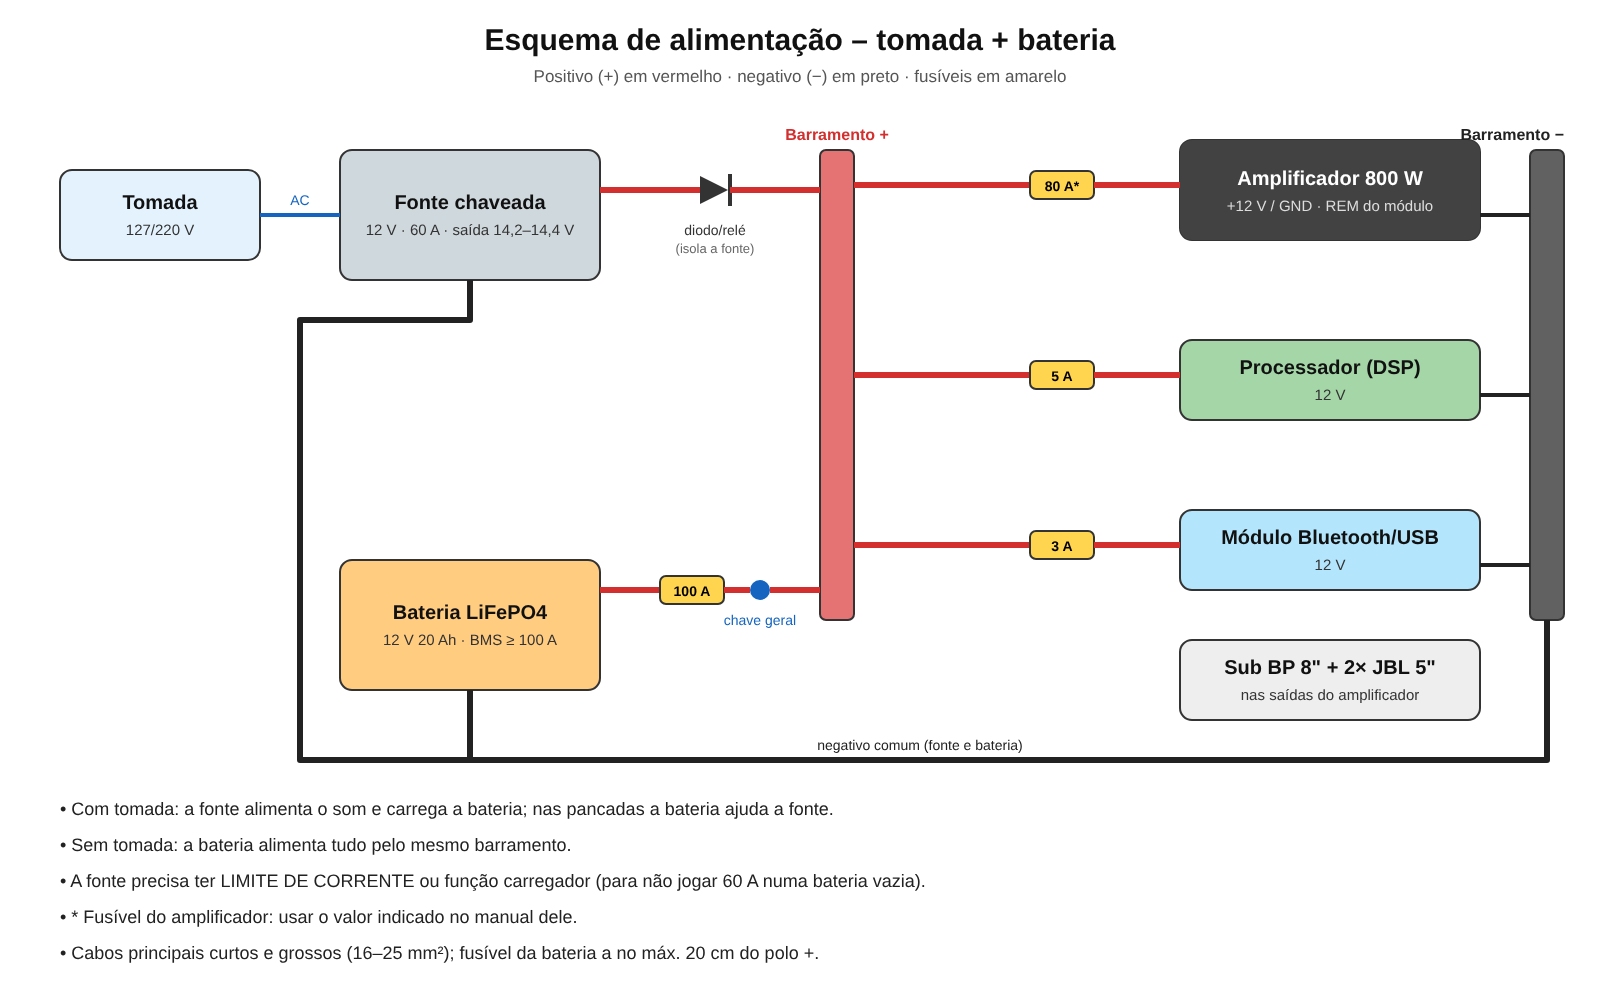
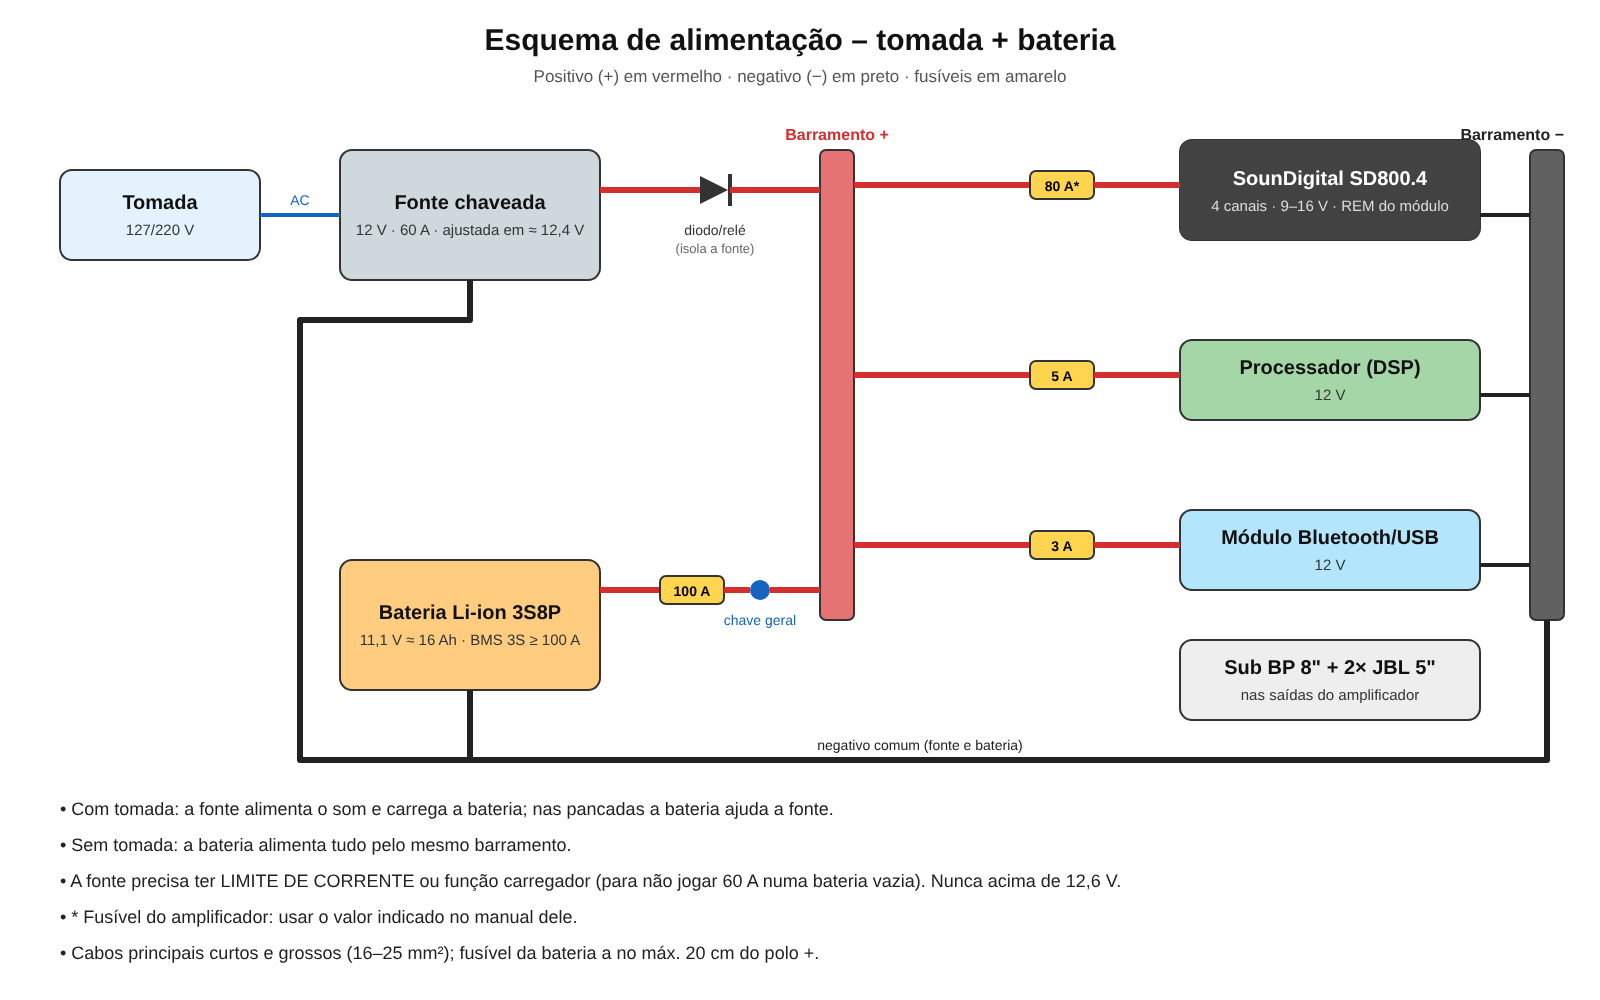
Atualiza caixa compacta com amplificador SD800.4 e JBL 5TRMS80
Claude-Session: https://claude.ai/code/session_01Xqr2b8JS1uj39tzQWZP4xF

diff --git a/ferramentas/render3d/combo.html b/ferramentas/render3d/combo.html
@@ -7,14 +7,14 @@ body{margin:0;width:1600px;height:1100px;background:linear-gradient(#f3f4f6,#dfe
 #f{position:absolute;bottom:22px;width:100%;text-align:center;font-size:18px;color:#52606d}
 </style></head><body>
 <div id="t">Caixa compacta com compartimento técnico</div>
-<div id="s">320 × 480 × 340 mm (L × A × P) · sub ≈ 15,8 L, sintonia ≈ 37 Hz · JBL juntos numa câmara fechada de ≈ 6 L</div>
+<div id="s">320 × 477 × 280 mm (L × A × P) · sub ≈ 15,8 L, sintonia ≈ 37 Hz · 2× JBL 5TRMS80 numa câmara fechada de ≈ 4,5 L</div>
 <div class="c" id="a" style="left:0"></div><div class="c" id="b" style="left:800px"></div>
 <div class="l" style="left:0">Frente</div><div class="l" style="left:800px">Traseira aberta – compartimento técnico e duto</div>
-<div id="f"><span style='color:#c8742c'>■</span> bateria LiFePO4 12 V 20 Ah &nbsp; <span style='color:#9aa3ad'>■</span> fonte chaveada 60 A &nbsp; <span style='color:#222'>■</span> amplificador 800 W &nbsp; <span style='color:#2e7d32'>■</span> processador &nbsp; <span style='color:#d32f2f'>■</span>/<span style='color:#222'>■</span> barramentos + / −</div>
+<div id="f"><span style='color:#c8742c'>■</span> bateria Li-ion 3S8P &nbsp; <span style='color:#9aa3ad'>■</span> fonte chaveada 12 V 60 A &nbsp; <span style='color:#222'>■</span> SounDigital SD800.4 EVO 6 &nbsp; <span style='color:#2e7d32'>■</span> processador &nbsp; <span style='color:#d32f2f'>■</span>/<span style='color:#222'>■</span> barramentos + / −</div>
 <script src="node_modules/three/build/three.min.js"></script>
 <script>
-const W=32,H=48,D=34,T=1.5;
-const subH=22, subY=-H/2+T+11, divY=-H/2+T+subH+T/2, upH=H-3*T-subH, jY=divY+T/2+upH/2, jX=7.5, bayZ0=-D/2+T, bayZ1=D/2-T-11-T;
+const W=32,H=47.7,D=28,T=1.5;
+const subH=27.2, subY=-H/2+T+13.6, divY=-H/2+T+subH+T/2, upH=H-3*T-subH, jY=divY+T/2+upH/2, jX=7.5, bayZ0=-D/2+T, bayZ1=D/2-T-11-T;
 const X0=xr=>(W/2-T)-xr, Y0=yr=>(-H/2+T)+yr;
 function mdfTex(){const c=document.createElement('canvas');c.width=c.height=512;const g=c.getContext('2d');
  g.fillStyle='#8fa486';g.fillRect(0,0,512,512);
@@ -67,16 +67,15 @@ function scene(open){
  // compartimento técnico
  const box=(w,h,d,x,y,z,col,met=0.2)=>{const m=new THREE.Mesh(new THREE.BoxGeometry(w,h,d),new THREE.MeshStandardMaterial({color:col,roughness:0.5,metalness:met}));m.position.set(x,y,z);m.castShadow=m.receiveShadow=true;g.add(m);return m;};
  const by=divY+T/2;
- box(8,17,18,-10.5,by+8.5,bayZ0+9,0xc8742c);               // bateria em pé, de lado
- box(6,1,10,-10.5,by+17.5,bayZ0+9,0x333333);                // terminais
- box(20,5,11,4,by+2.5,bayZ0+5.5,0x9aa3ad,0.7);             // fonte chaveada deitada
- for(let i=0;i<9;i++)box(0.25,0.2,9,-4+i*2,by+5.05,bayZ0+5.5,0x5f6770,0.6);
- box(9,3,7,1,by+6.5,bayZ0+4.5,0x2e7d32);                   // processador
- box(21,14,5,4,by+14,bayZ1-2.5,0x1e1e1e,0.4);              // amplificador na parede
- for(let i=0;i<8;i++)box(21,0.5,1.2,4,by+8+i*1.7,bayZ1-5.6,0x2b2b2b,0.6);
- box(1.2,1.2,9,13.6,by+15,bayZ0+5,0xd32f2f,0.5);           // barramento +
- box(1.2,1.2,9,13.6,by+12,bayZ0+5,0x222222,0.5);           // barramento -
- box(3,4,1.5,-10.5,by+20,bayZ0+1,0x1565c0);                 // fusível/chave geral
+ box(21.5,5,11.5,0,by+2.5,bayZ0+6.2,0x9aa3ad,0.7);         // fonte chaveada deitada
+ for(let i=0;i<10;i++)box(0.25,0.2,9.5,-9+i*2,by+5.05,bayZ0+6.2,0x5f6770,0.6);
+ box(11.2,5.2,10.7,-7.6,by+5+2.6,bayZ0+6,0x3a3d42,0.5);     // amplificador SD800.4
+ for(let i=0;i<6;i++)box(10.6,0.8,0.35,-7.6,by+10.6,bayZ0+1.6+i*1.75,0x2a2c30,0.6);
+ box(15,6.5,6,6.4,by+5+3.25,bayZ0+3.6,0xc8742c);            // bateria 3S8P
+ box(9,2.4,6,6.4,by+11.5+1.2,bayZ0+3.6,0x2e7d32);           // processador
+ box(1.2,1.2,8,-13.6,by+14,bayZ0+5,0xd32f2f,0.5);           // barramento +
+ box(1.2,1.2,8,-13.6,by+12,bayZ0+5,0x222222,0.5);           // barramento -
+ box(3,3.5,1.5,11,by+13.5,bayZ0+1,0x1565c0);                // fusível/chave geral
  // topo: alça e módulo
  const hd=new THREE.Mesh(new THREE.BoxGeometry(12,0.6,7),metal);hd.position.set(0,H/2+0.1,-2);g.add(hd);
  const hd2=new THREE.Mesh(new THREE.BoxGeometry(9,0.3,3.5),black);hd2.position.set(0,H/2+0.45,-2);g.add(hd2);
@@ -86,7 +85,7 @@ function scene(open){
  const pvc=new THREE.MeshStandardMaterial({color:0x3d8bd4,roughness:0.45,side:THREE.DoubleSide});
  const zp=-D/2+T+4.5,R=4.2,P=(x,y,z)=>new THREE.Vector3(x,y,z),path=new THREE.CurvePath();
  const seg=(a,b)=>path.add(new THREE.LineCurve3(a,b)),bend=(a,c,b)=>path.add(new THREE.QuadraticBezierCurve3(a,c,b));
- const ex=X0(24.5),ey=Y0(4.5),lx=X0(4.5),ty=Y0(17.5),endx=X0(13.5),sg=Math.sign(lx-ex);
+ const ex=X0(24.5),ey=Y0(4.5),lx=X0(4.5),ty=Y0(22.7),endx=X0(8.3),sg=Math.sign(lx-ex);
  seg(P(ex,ey,-D/2),P(ex,ey,zp-R));bend(P(ex,ey,zp-R),P(ex,ey,zp),P(ex+sg*R,ey,zp));
  seg(P(ex+sg*R,ey,zp),P(lx-sg*R,ey,zp));bend(P(lx-sg*R,ey,zp),P(lx,ey,zp),P(lx,ey+R,zp));
  seg(P(lx,ey+R,zp),P(lx,ty-R,zp));bend(P(lx,ty-R,zp),P(lx,ty,zp),P(lx-sg*R,ty,zp));
@@ -104,5 +103,5 @@ function scene(open){
 function render(id,open,cam){const el=document.getElementById(id);const rd=new THREE.WebGLRenderer({antialias:true,alpha:true,preserveDrawingBuffer:true});
  rd.setSize(800,880);rd.shadowMap.enabled=true;rd.shadowMap.type=THREE.PCFSoftShadowMap;rd.outputColorSpace=THREE.SRGBColorSpace;rd.toneMapping=THREE.ACESFilmicToneMapping;el.appendChild(rd.domElement);
  const c=new THREE.PerspectiveCamera(30,800/880,1,500);c.position.set(...cam);c.lookAt(0,0,0);rd.render(scene(open),c);}
-render('a',false,[60,40,110]);render('b',true,[-60,42,-110]);window.done=true;
+render('a',false,[58,40,104]);render('b',true,[-58,44,-100]);window.done=true;
 </script></body></html>

diff --git a/ferramentas/desenho_ligacao.py b/ferramentas/desenho_ligacao.py
@@ -20,12 +20,12 @@ tx(W/2,82,"Positivo (+) em vermelho · negativo (−) em preto · fusíveis em a
 R,K="#d32f2f","#222"
 # blocos
 box(60,170,200,90,"Tomada","127/220 V","#e3f2fd")
-box(340,150,260,130,"Fonte chaveada","12 V · 60 A · saída 14,2–14,4 V","#cfd8dc")
-box(340,560,260,130,"Bateria LiFePO4","12 V 20 Ah · BMS ≥ 100 A","#ffcc80")
+box(340,150,260,130,"Fonte chaveada","12 V · 60 A · ajustada em ≈ 12,4 V","#cfd8dc")
+box(340,560,260,130,"Bateria Li-ion 3S8P","11,1 V ≈ 16 Ah · BMS 3S ≥ 100 A","#ffcc80")
 box(1180,140,300,100,"Amplificador 800 W","","#424242")
 box(1180,340,300,80,"Processador (DSP)","12 V","#a5d6a7")
 box(1180,510,300,80,"Módulo Bluetooth/USB","12 V","#b3e5fc")
-a('<rect x="1180" y="140" width="300" height="100" rx="12" fill="#424242"/>');tx(1330,185,"Amplificador 800 W",20,"#fff",wt="bold");tx(1330,211,"+12 V / GND · REM do módulo",15,"#ddd")
+a('<rect x="1180" y="140" width="300" height="100" rx="12" fill="#424242"/>');tx(1330,185,"SounDigital SD800.4",20,"#fff",wt="bold");tx(1330,211,"4 canais · 9–16 V · REM do módulo",15,"#ddd")
 # barramentos
 a('<rect x="820" y="150" width="34" height="470" rx="6" fill="#e57373" stroke="#333" stroke-width="2"/>');tx(837,140,"Barramento +",16,R,wt="bold")
 a('<rect x="1530" y="150" width="34" height="470" rx="6" fill="#616161" stroke="#333" stroke-width="2"/>');tx(1564,140,"Barramento −",16,K,"end","bold")
@@ -51,7 +51,7 @@ box(1180,640,300,80,"Sub BP 8\" + 2× JBL 5\"","nas saídas do amplificador","#e
 y0=815
 notas=["Com tomada: a fonte alimenta o som e carrega a bateria; nas pancadas a bateria ajuda a fonte.",
 "Sem tomada: a bateria alimenta tudo pelo mesmo barramento.",
-"A fonte precisa ter LIMITE DE CORRENTE ou função carregador (para não jogar 60 A numa bateria vazia).",
+"A fonte precisa ter LIMITE DE CORRENTE ou função carregador (para não jogar 60 A numa bateria vazia). Nunca acima de 12,6 V.",
 "* Fusível do amplificador: usar o valor indicado no manual dele.",
 "Cabos principais curtos e grossos (16–25 mm²); fusível da bateria a no máx. 20 cm do polo +."]
 for i,n in enumerate(notas): tx(60,y0+i*36,"• "+n,18,"#222","start")

diff --git a/notas/projeto-compacto.md b/notas/projeto-compacto.md
@@ -75,3 +75,18 @@
 - Capacidade nominal: 14 Ah (7P) ou 16 Ah (8P), ≈ 155–180 Wh. Em células genéricas a real costuma ser menor.
 - Tamanho do 3S8P deitado: ≈ 15 × 6 × 7 cm, ≈ 1,1 kg.
 - Obrigatório: testar capacidade e resistência interna de cada célula, montar grupos paralelos equilibrados, BMS 3S ≥ 100 A com balanceamento, e ligações série dimensionadas para 60–80 A.
+
+## Revisão com componentes reais
+- **JBL Multisystem 5TRMS80** (triaxial): 80 W RMS, 4 Ω, Fs 91 Hz, 87 dB, resposta de 76 Hz a 20 kHz.
+  - O anúncio diz "largura 6,8"" — **medir**: se forem 17 cm, os dois não cabem lado a lado em 32 cm. O projeto supõe cerca de 13,5 cm.
+- **SounDigital SD800.4 EVO 6:** 4 canais, 800 W RMS a 4 Ω (≈ 200 W por canal), alimentação de 9–16 V, 11,2 × 10,7 × 5,2 cm, com filtros passa-altas e passa-baixas.
+  - Canal 1: sub BP 8" (4 Ω). ~200 W combina com o limite de excursão, e não precisa ligar em ponte.
+  - Canais 2 e 3: os JBL, com passa-altas em 100–120 Hz e ganho moderado (80 W RMS cada).
+  - Canal 4: livre.
+  - Com o pack 3S (9–12,6 V) a potência fica abaixo da nominal, mas suficiente.
+  - **BMS cortando em 3,1–3,2 V por célula** (9,3–9,6 V), para o amplificador não desligar no pico, já que o mínimo dele é 9 V.
+  - **O subsônico (~28 Hz) deve ficar no processador.** O anúncio do amplificador não cita subsônico.
+- **Caixa revista:** 320 × 477 × 280 mm (L × A × P), ≈ 43 L.
+  - Câmara do sub: interno 290 × 272 × 250 mm, ≈ 15,8 L líquidos, com duto de ≈ 48 cm.
+  - Câmara dos JBL: na frente de cima, 290 × 160 × 110 mm (≈ 4,5 L líquidos).
+  - Compartimento técnico: atrás dela, 290 × 160 × 125 mm, com a fonte deitada embaixo e, por cima, o amplificador e a bateria 3S8P; o processador fica sobre a bateria.
